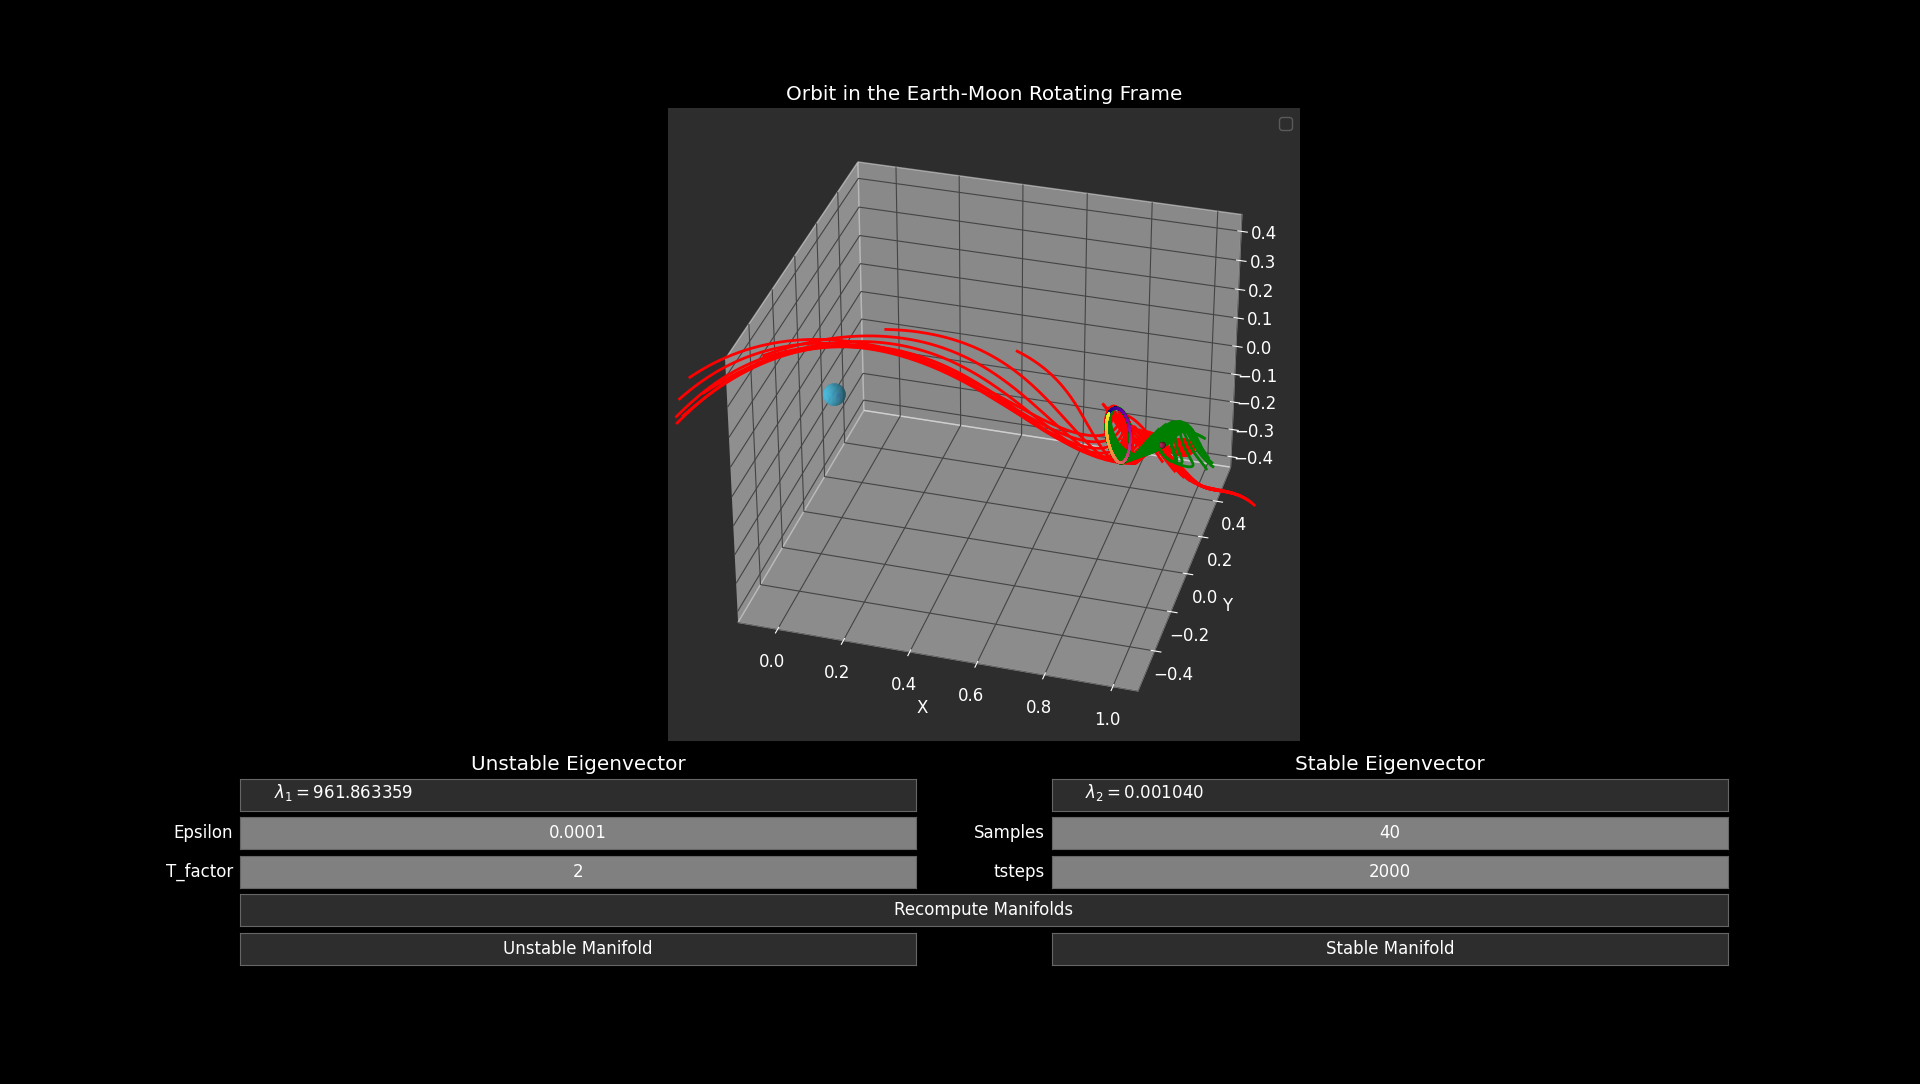
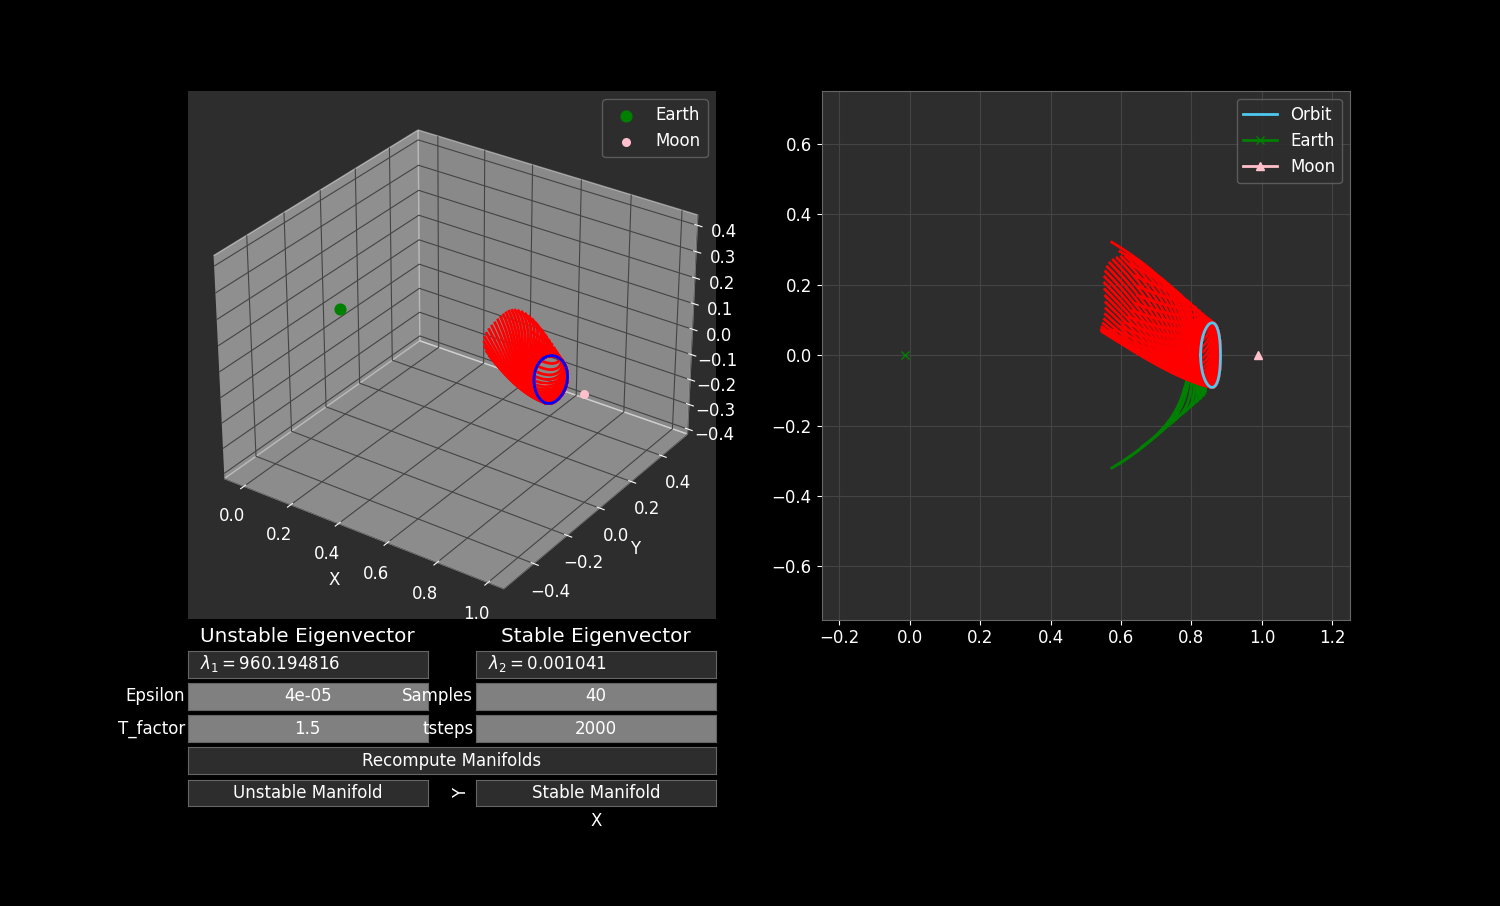
Dashboard layout improvements

diff --git a/plotDashboard.py b/plotDashboard.py
@@ -12,7 +12,7 @@ import os
 sol_dir = os.path.join(os.getcwd(),"OrbitSolutions")
 
 ## Extract state information from loaded solution set
-orbit = 'L1-Lyapunov.csv' # Select orbit solution file
+orbit = 'L1-Halo.csv' # Select orbit solution file
 global orbit_sol
 orbit_sol = np.loadtxt(os.path.join(sol_dir, orbit), delimiter=',')
 Monodromy = orbit_sol[7:,-1].reshape(6,6).transpose()  # Monodromy matrix is STM after one orbital period
@@ -148,12 +148,12 @@ def create_dashboard(fig):
             # clear subplot
             orbit_ax.clear()
             
+            # plot stable manifold
+            plot_tools.PlotManifold(orbit_ax, stable_manifold, line_color="green" )
+            
             # re-add orbit
             plot_tools.Orbit3D(orbit_sol, orbit_ax, args={'Frame':'Synodic'})
             
-            # plot stable manifold
-            plot_tools.PlotManifold(orbit_ax, stable_manifold, line_color="green" )
-
             return
         
         def plot_unstable_manifold(label):
@@ -162,12 +162,12 @@ def create_dashboard(fig):
             # clear subplot
             orbit_ax.clear()
             
-            # re-add orbit
-            plot_tools.Orbit3D(orbit_sol, orbit_ax, args={'Frame':'Synodic'})
-            
             # plot stable manifold
             plot_tools.PlotManifold(orbit_ax, unstable_manifold, line_color="red" )
 
+            # re-add orbit
+            plot_tools.Orbit3D(orbit_sol, orbit_ax, args={'Frame':'Synodic'})
+            
             return
 
         def refresh_manifolds(label):
@@ -180,10 +180,11 @@ def create_dashboard(fig):
 
             print("Completed manifold computation.")
             
-            
+            twod_plot.clear()
             plot_tools.PlotManifold2D(twod_plot, stable_manifold, line_color="green")
             plot_tools.PlotManifold2D(twod_plot, unstable_manifold, line_color="red")
             
+            plot_tools.Orbit2D(twod_plot, orbit_sol)
             return
         
 
@@ -195,7 +196,8 @@ def create_dashboard(fig):
         plot_tools.Orbit3D(orbit_sol, orbit_ax, args={'Frame':'Synodic'})
 
         twod_plot = fig.add_subplot(gs[0:3, 1])
-        twod_plot.set(xlim=(0.75,1.25))
+        plot_tools.Orbit2D(twod_plot, orbit_sol)
+        # twod_plot.set(xlim=(0.75,1.25))
 
         # subgrid for the buttons
         gs_info = gs[6].subgridspec(5, 2)
@@ -263,20 +265,20 @@ def create_dashboard(fig):
 
 
         # Clear old buttons and create new ones
-        buttons.clear()
-        for i, name in enumerate(["Orbit", "Phase Plots"]):
-            button_ax = fig.add_axes([0.30 + i * 0.12, 0.95, 0.10, 0.03])
-            btn = Button(button_ax, name, color="#2d2d2d", hovercolor="#4d4d4d")
-            btn.label.set_color("white")
-            if name == "Orbit":
-                btn.on_clicked(lambda x: create_orbit_tab())
-            elif name == "Phase Plots":
-                btn.on_clicked(lambda x: create_phase_tab())
-            #elif name == "Controls":
-            #    btn.on_clicked(lambda x: create_controls_tab())
-            #else:
-            #    btn.on_clicked(lambda x: create_aero_tab())
-            buttons.append(btn)
+        # buttons.clear()
+        # for i, name in enumerate(["Orbit", "Phase Plots"]):
+        #     button_ax = fig.add_axes([0.30 + i * 0.12, 0.95, 0.10, 0.03])
+        #     btn = Button(button_ax, name, color="#2d2d2d", hovercolor="#4d4d4d")
+        #     btn.label.set_color("white")
+        #     if name == "Orbit":
+        #         btn.on_clicked(lambda x: create_orbit_tab())
+        #     elif name == "Phase Plots":
+        #         btn.on_clicked(lambda x: create_phase_tab())
+        #     #elif name == "Controls":
+        #     #    btn.on_clicked(lambda x: create_controls_tab())
+        #     #else:
+        #     #    btn.on_clicked(lambda x: create_aero_tab())
+        #     buttons.append(btn)
         
         plt.draw()
     

diff --git a/plot_tools.py b/plot_tools.py
@@ -79,18 +79,17 @@ def PhasePortraits(solvec, tvec):
     plt.ylabel('Xdot')
     plt.colorbar(traj2)
     
-def Orbit2D(solvec, time, mu, args={}):
-    _args = {'Frame':'Synodic'}
-    x = np.array(solvec[0,:])
-    y = np.array(solvec[1,:])
-    z = np.array(solvec[2,:])
+def Orbit2D(ax, orbit_solution):
+    mu = c.mustar
 
-    fig = plt.figure()
-    ax = plt.axes()
-    traj = ax.scatter(x,y, c=time, cmap = 'plasma', s=.5, label='Spacecraft')
+    x = np.array(orbit_solution[1,:])
+    y = np.array(orbit_solution[2,:])
+    z = np.array(orbit_solution[3,:])
+
+
+    traj = ax.plot(x,y, label='Orbit')
     ax.plot(-mu, 0, c='g', marker='x', label='Earth')
-    ax.plot(1-mu, 0, c='b', marker='^', label='Moon')
-    ax.plot(0,0, c='m', marker='*')
+    ax.plot(1-mu, 0, c='pink', marker='^', label='Moon')
 
 
     # if args['Frame'] == 'Barycentric':
@@ -118,7 +117,7 @@ def Orbit2D(solvec, time, mu, args={}):
 
     plt.axis('equal')
     ax.legend()
-    ax.set_xlim(-1,1)
+    ax.set_xlim(-0.25,1.25)
     plt.xlabel('X')
     plt.ylabel('Y')
     # plt.colorbar(traj)
@@ -225,56 +224,11 @@ def PlotManifold2D(ax, manifold, line_color):
         
         # add to plot
         traj = ax.plot(x_vals,y_vals, color=line_color)
+        ax.plot(x_vals[0],y_vals[0], c='cyan')
     
     ax.plot(1-c.mustar, 0, color='pink')
     ax.set(xlim=(0.75,1.25))
     ax.axis('equal')
-
-
-
-def Orbit2D(solvec, time, mu, args={}):
-    _args = {'Frame':'Synodic'}
-    x = np.array(solvec[0,:])
-    y = np.array(solvec[1,:])
-    z = np.array(solvec[2,:])
-
-    fig = plt.figure()
-    ax = plt.axes()
-    traj = ax.scatter(x,y, c=time, cmap = 'plasma', s=.5, label='Spacecraft')
-    ax.plot(-mu, 0, c='g', marker='x', label='Earth')
-    ax.plot(1-mu, 0, c='b', marker='^', label='Moon')
-    ax.plot(0,0, c='m', marker='*')
-
-
-    # if args['Frame'] == 'Barycentric':
-    #     n = np.linspace(0,2*np.pi,100)
-    #     v = np.linspace(0, np.pi, 100)
-
-    #     re = c.earthD / c.lstar
-    #     rm = c.moonD / c.lstar
-
-    #     EarthX = -mu*np.cos(n)
-    #     EarthY = -mu*np.sin(n)
-    #     MoonX = (1-mu)*np.cos(n)
-    #     MoonY = (1-mu)*np.sin(n)
-
-    #     xe = re * np.outer(np.cos(n), np.sin(v)) + mu
-    #     ye = re * np.outer(np.sin(n), np.sin(v)) + 0
-
-    #     xm = rm * np.outer(np.cos(n), np.sin(v)) - (1-mu)
-    #     ym = rm * np.outer(np.sin(n), np.sin(v))
-
-    #     ax.scatter(EarthX, EarthY, c='g')
-    #     ax.scatter(MoonX, MoonY, c='b')
-    #     ax.scatter(xe,ye)
-    #     ax.scatter(xm,ym, c=time, cmap = 'plasma', label='Moon Orbit')
-
-    plt.axis('equal')
-    ax.legend()
-    ax.set_xlim(-1,1)
-    plt.xlabel('X')
-    plt.ylabel('Y')
-    # plt.colorbar(traj)
 
 
 def JacobiPlot(C, time, ybound ):

diff --git a/README.md b/README.md
@@ -1,10 +1,9 @@
 # ThreeFold
 Invariant manifold and three-body periodic orbits analysis code.
 
-Compute periodic orbits in the Earth-Moon system using initial conditions with simulation.py. Compute and view the the various stable and unstable invariant manifolds with the plotDashboard.py, an interacitve matplotlib based GUI. Warning, the GUI is very slow. Future work might include a customs rendering engine.  
+Compute periodic orbits in the Earth-Moon system. Input desired initial conditions (https://ssd.jpl.nasa.gov/tools/periodic_orbits.html is a great resource) into simulation.py and propogate the orbit for one period. Alternatively, use the file `state_library.py`, which is a dictionary of interesting inital states in the E-M CR3BP. View the the various stable and unstable invariant manifolds with the plotDashboard.py, an interacitve matplotlib based GUI. See the periodic orbit and the manifolds in 3D or 2D. The stable and unstable eigen-values of the monodromy matrix are shown below the 3D plot. You may select and change the numerical parameters for the manifold computation via the text boxes directly under the eigen-values. 
 
-
-It also includes the file `state_library.py`, which is a dictionary of interesting inital states in the E-M CR3BP. A simple representative L1 halo orbit is shown in the Earth-Moon synodic frame below using it's name in the state library, 'L1-Halo'. The 2D manifolds for an L1-Lyapunov orbit are shown below it, with the stable (green) and unstable (red) invariant manifolds.
+A simple representative L1 halo orbit is shown in the Earth-Moon synodic frame below using it's name in the state library, 'L1-Halo'. The 2D manifolds for an L1-Lyapunov orbit are shown below it, with the stable (green) and unstable (red) invariant manifolds.
 
 ![3D Synodic Frame](./Pictures/ThreeFold.png)
 ![2D Manifolds](./Pictures/L1Lyapunov.png)
